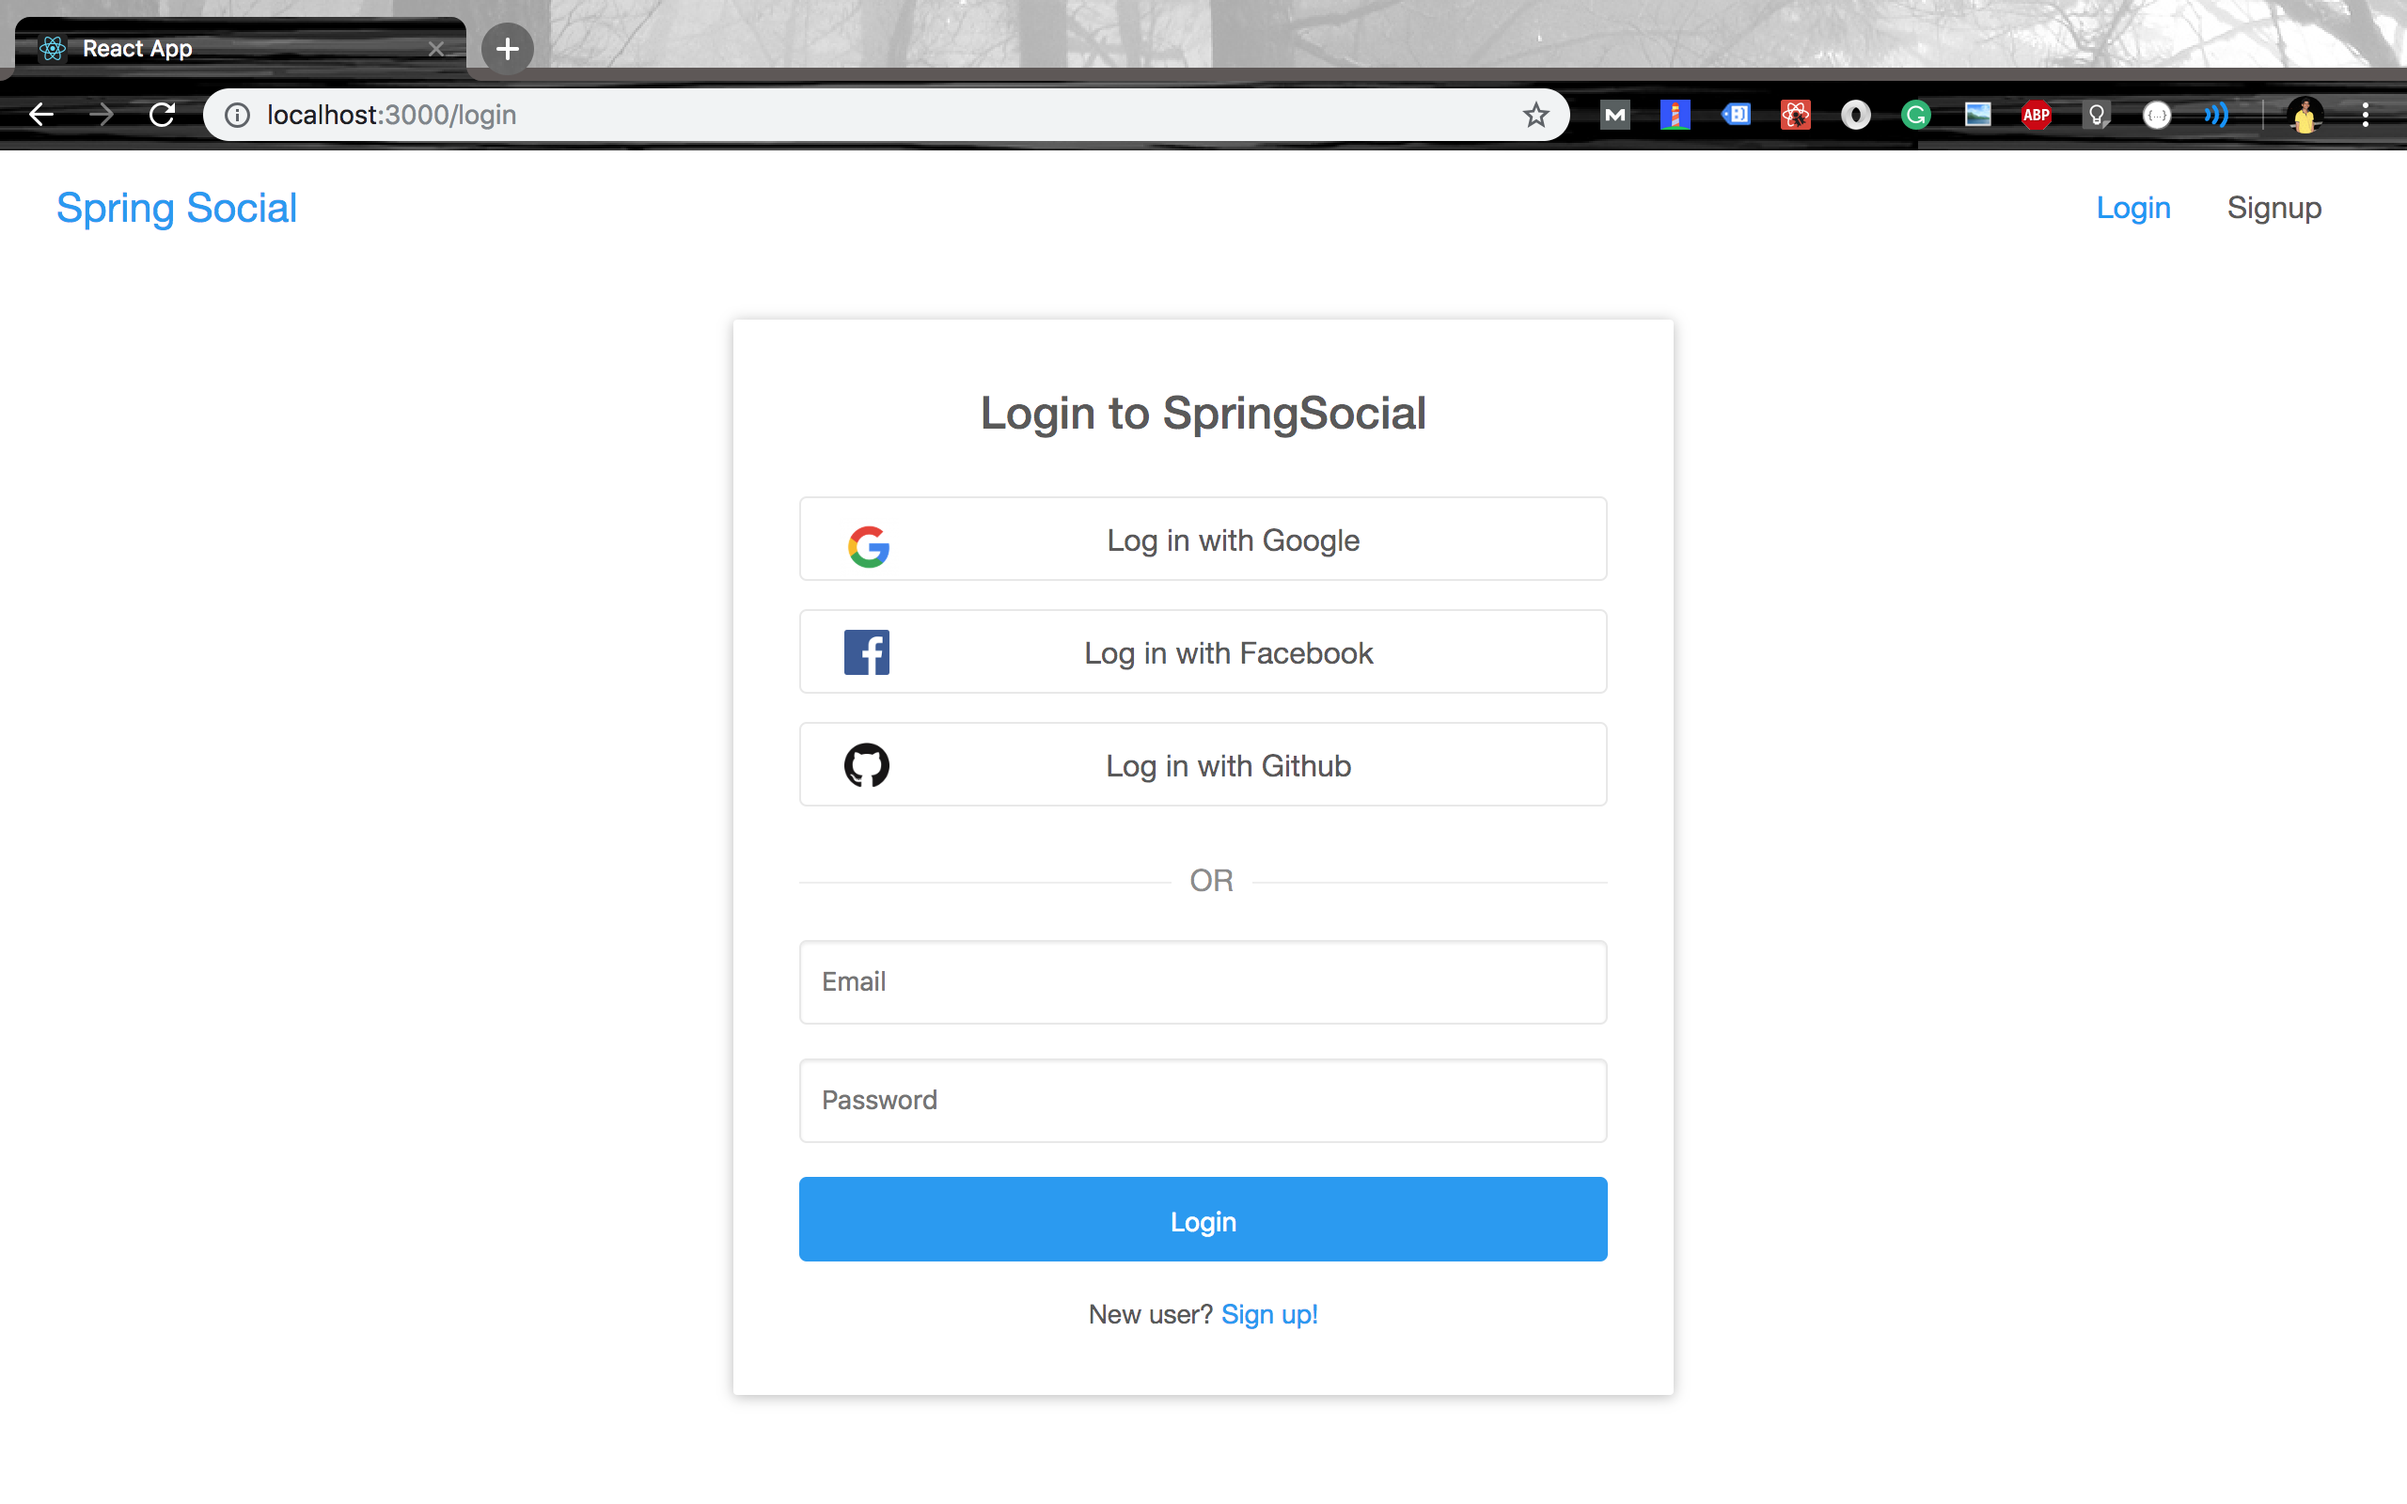
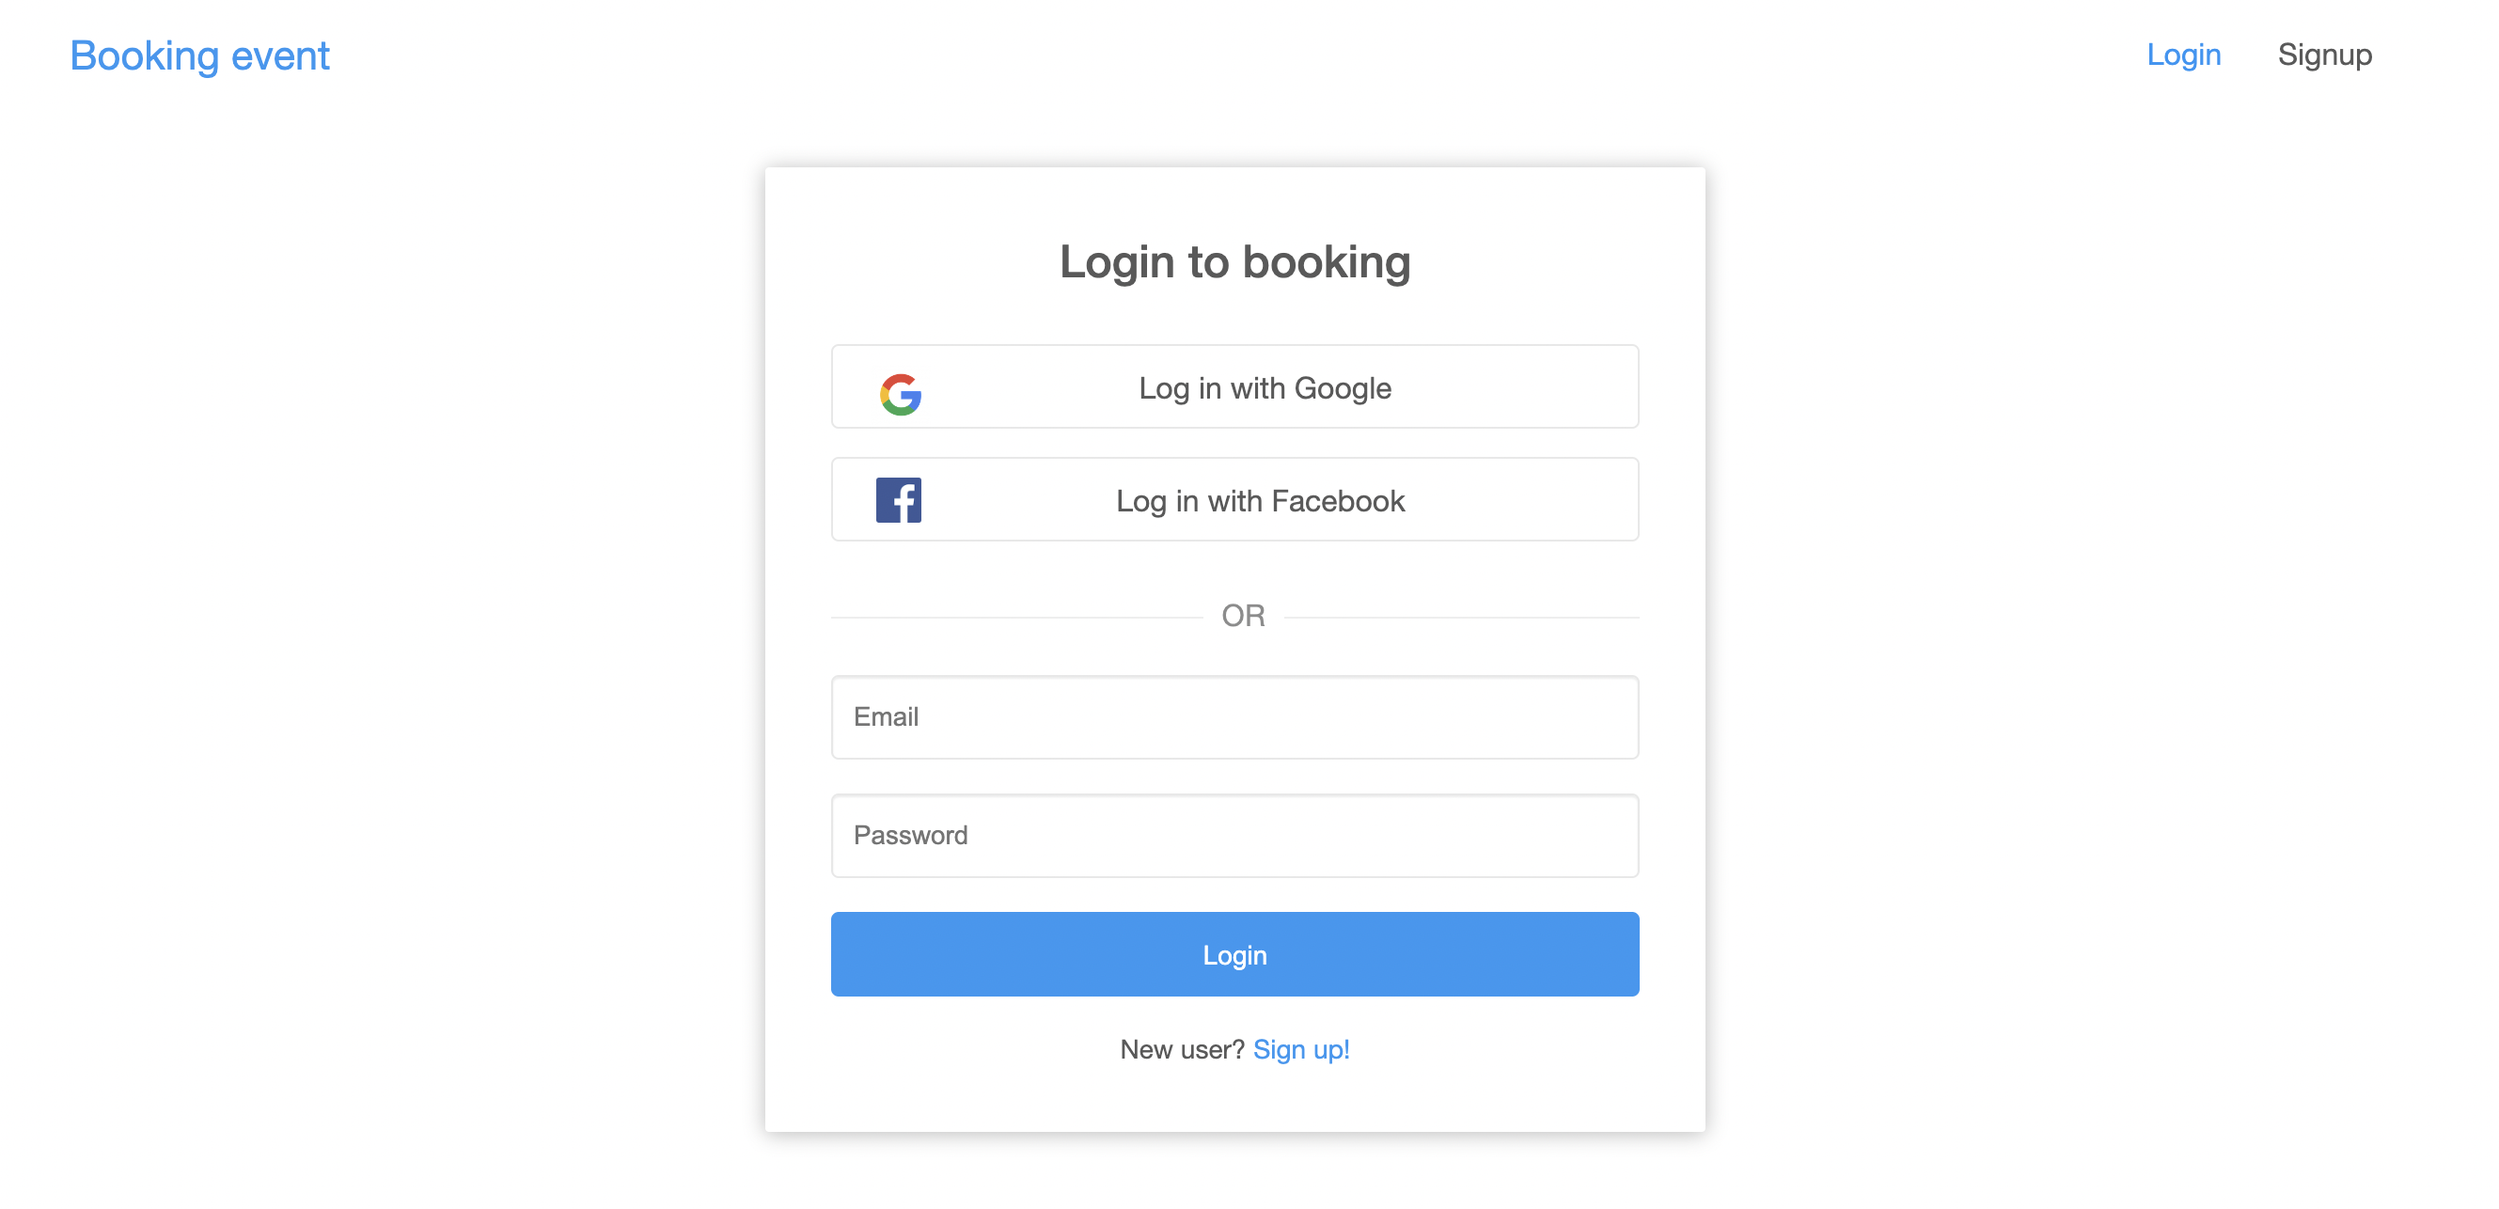
config backend

diff --git a/Readme.md b/Readme.md
@@ -1,22 +1,22 @@
-# Spring Boot React OAuth2 Social Login Demo
+# Spring Boot React Booking
 
 ![App Screenshot](screenshot.png)
 
 ## Setting up the Backend Server (spring-social)
 
-+ **Create MySQL database**
++ **Create Postgres database**
 
 	```bash
-	mysql> create database spring_social
+	postgres=# create database booking
 	```
 
 + **Configure database username and password**
 
 	```yml
-	# spring-social/src/main/resources/application.yml
+	# booking/src/main/resources/application.yml
 	spring:
 	    datasource:
-	        url: jdbc:mysql://localhost:3306/spring_social?useSSL=false
+	        url: jdbc:postgresql://localhost:5432/booking
 	        username: <YOUR_DB_USERNAME>
 	        password: <YOUR_DB_PASSWORD>
 	```
@@ -62,7 +62,7 @@
 
 	*Also, make sure that the above mentioned scopes are added in the OAuth2 provider console.*	For example, scope `email` and `profile` should be added in your Google project's OAuth2 consent screen.
 
-+ **Run spring-social**
++ **Run booking**
 
 	```bash
 	mvn spring-boot:run
@@ -71,6 +71,6 @@
 ## Setting up the Frontend Server (react-social)
 
 ```bash
-cd react-social
+cd booking-frontend
 npm install && npm start
 ```
